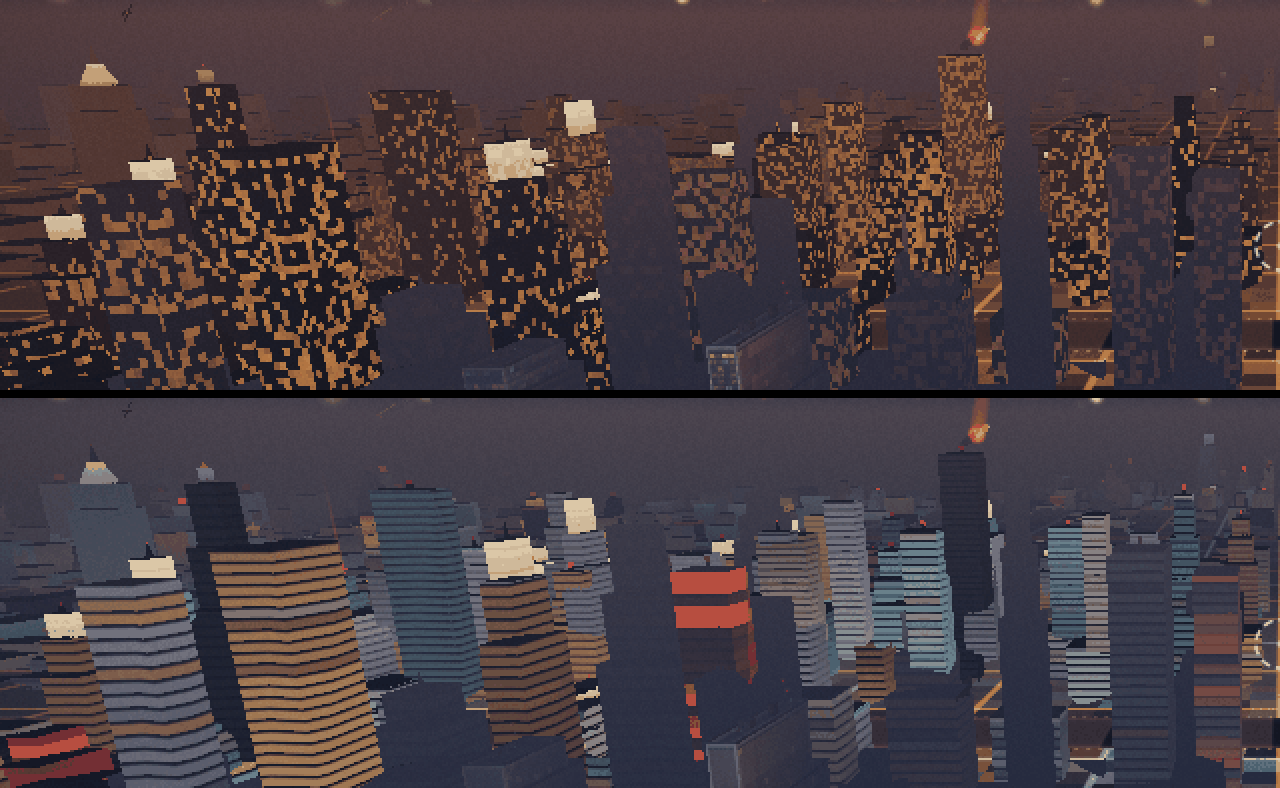
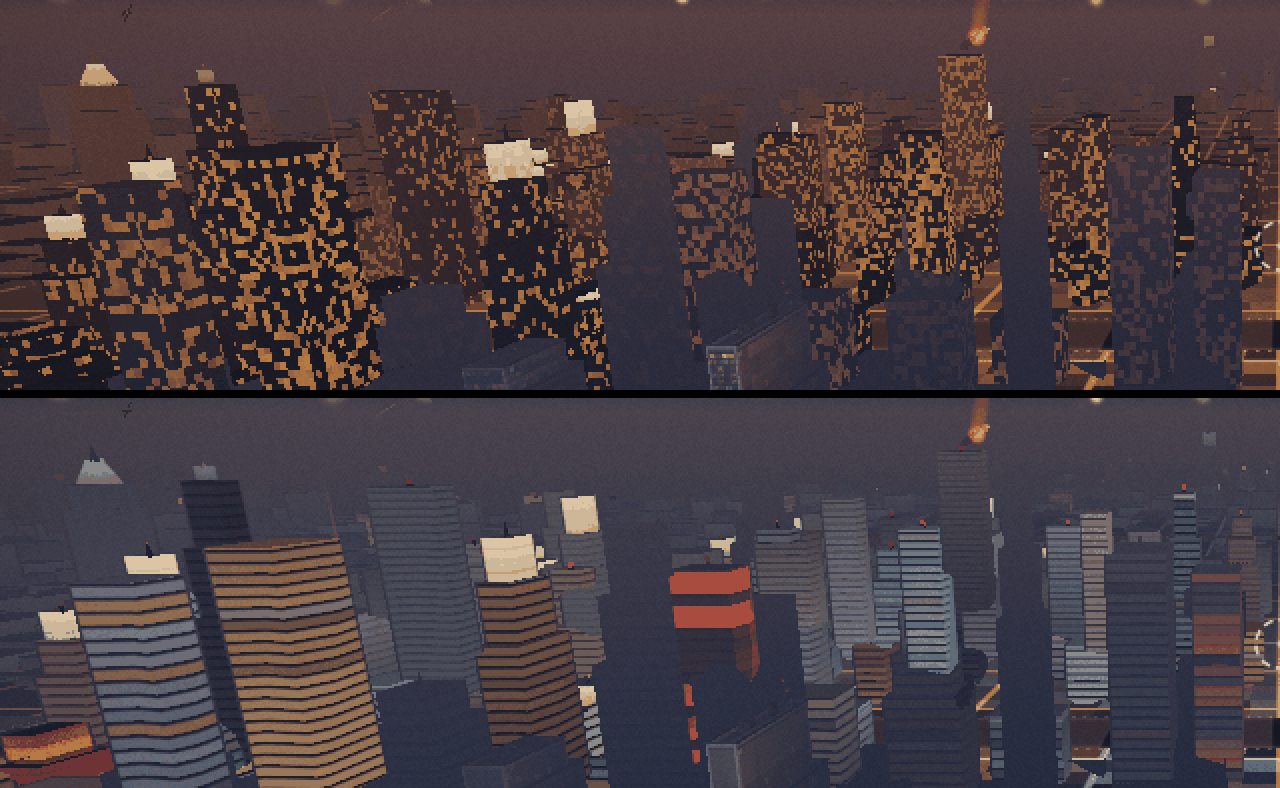
docs(R1): final before/after shots and the far-flicker numbers

diff --git a/docs/r1-far-city/README.md b/docs/r1-far-city/README.md
@@ -33,4 +33,31 @@ confirmed on the M3; these are for composition.
   same L9 peak, so the horizon and the cloud deck over the city stop
   reading orange.
 
-No new draws: the far skyline is still its two meshes.
+- **Depth in the far shell.** The shell holds ~200 depth steps for
+  0.8–5 km, so a far tower is about one step deep. The lattice is now
+  drawn far to near (three's LessEqual keeps the nearer tower on a tie), a
+  lower part's roof is a ring round the part above (no hidden floor behind
+  its faces — the seam that crawled along every setback, on main too), and
+  each far tower gets a one-pixel silhouette AA. A tower's own colour,
+  occupancy, bands and neon converge on the city's mean by 2.4 km, as the
+  air would merge them, so the depth ties that remain do not show.
+
+No new draws: the far skyline is still its two meshes (`__ab.perf()`
+draw calls equal main's in every view below).
+
+## Far-field flicker (`flicker.mjs --far`, SwiftShader, res 2)
+
+The camera slides 0.5 m a frame with the world frozen and everything but
+the far skyline and the sky hidden; `flicker` is the mean |Δ²luma| inside
+the view's far rect (a steady sub-pixel slide cancels; switching does not).
+
+| view | main (be8ce88) | R1 | drop |
+| --- | --- | --- | --- |
+| `skyline-horizon-low` | 4.256 | 0.779 | **81.7 %** |
+| `skyline-far` | 2.069 | 1.288 | 37.7 % |
+
+`skyline-far`'s rect is the whole far band from a 380 m eye: hundreds of
+towers a few pixels across, whose remaining flicker is geometric (box edges
+stepping, no MSAA) and depth ties at 2+ km — present on main too, and only
+shrunk, not removed, by the work above. The window sparkle itself (the
+orange checker) is gone in both views.
